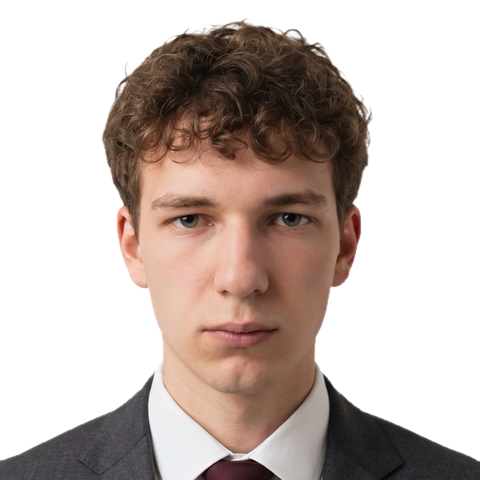
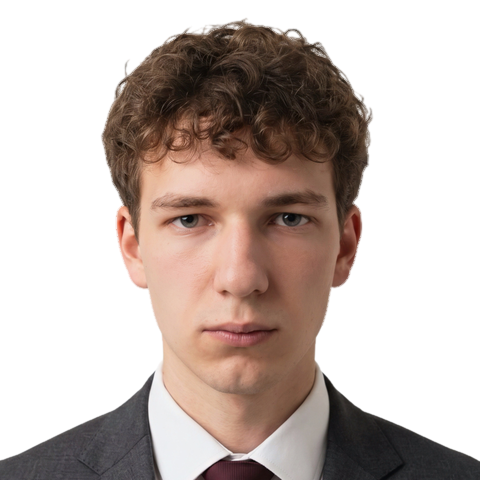
content: cleaner photo cutouts (edge color decontamination), operator patronymic

diff --git a/content/privacy.md b/content/privacy.md
@@ -6,7 +6,7 @@
 
 1.1. Политика определяет, как оператор обрабатывает и защищает персональные данные посетителей сайта https://creativerights.ru/ (далее — Сайт), заявителей и клиентов юридического сервиса CreativeRights. Политика издана во исполнение ч. 1 и 2 ст. 18.1 Федерального закона от 27.07.2006 № 152-ФЗ «О персональных данных» (далее — Закон) в редакции от 26.07.2026.
 
-1.2. Оператор персональных данных — Бабанских Артём [ОТЧЕСТВО], ИНН [ИНН], физическое лицо, применяющее специальный налоговый режим «Налог на профессиональный доход» (далее — Оператор, «мы»).
+1.2. Оператор персональных данных — Бабанских Артём Михайлович, ИНН [ИНН], физическое лицо, применяющее специальный налоговый режим «Налог на профессиональный доход» (далее — Оператор, «мы»).
 Адрес для обращений: [АДРЕС ДЛЯ ОБРАЩЕНИЙ].
 Электронная почта: creativerights@mail.ru.
 
@@ -203,4 +203,4 @@
 
 ## 13. Контакты
 
-По всем вопросам обработки персональных данных пишите на creativerights@mail.ru или по адресу [АДРЕС ДЛЯ ОБРАЩЕНИЙ]. Оператор — Бабанских Артём [ОТЧЕСТВО], ИНН [ИНН].
+По всем вопросам обработки персональных данных пишите на creativerights@mail.ru или по адресу [АДРЕС ДЛЯ ОБРАЩЕНИЙ]. Оператор — Бабанских Артём Михайлович, ИНН [ИНН].

diff --git a/content/consent.md b/content/consent.md
@@ -7,7 +7,7 @@
 
 Я, заполняя форму заявки на сайте https://creativerights.ru/ и отмечая флажок «Даю согласие на обработку персональных данных», свободно, своей волей и в своём интересе даю согласие на обработку моих персональных данных на следующих условиях (ч. 1 ст. 9 Федерального закона от 27.07.2006 № 152-ФЗ «О персональных данных», далее — Закон).
 
-1. **Оператор:** Бабанских Артём [ОТЧЕСТВО], ИНН [ИНН], плательщик налога на профессиональный доход. Адрес для обращений: [АДРЕС ДЛЯ ОБРАЩЕНИЙ]. Электронная почта: creativerights@mail.ru.
+1. **Оператор:** Бабанских Артём Михайлович, ИНН [ИНН], плательщик налога на профессиональный доход. Адрес для обращений: [АДРЕС ДЛЯ ОБРАЩЕНИЙ]. Электронная почта: creativerights@mail.ru.
 
 2. **Цели обработки:**
    1. рассмотреть мою заявку и связаться со мной по ней выбранным мной способом (Telegram или электронная почта), подготовить предложение и при моём желании заключить договор;

diff --git a/content/cookies.md b/content/cookies.md
@@ -4,7 +4,7 @@
 
 Я, нажимая кнопку «Принять» в баннере о файлах cookie на сайте https://creativerights.ru/, свободно, своей волей и в своём интересе даю согласие на обработку моих персональных данных на следующих условиях.
 
-1. **Оператор:** Бабанских Артём [ОТЧЕСТВО], ИНН [ИНН], адрес для обращений: [АДРЕС ДЛЯ ОБРАЩЕНИЙ], электронная почта: creativerights@mail.ru.
+1. **Оператор:** Бабанских Артём Михайлович, ИНН [ИНН], адрес для обращений: [АДРЕС ДЛЯ ОБРАЩЕНИЙ], электронная почта: creativerights@mail.ru.
 
 2. **Цель:** вести статистику посещений сайта, понимать, какие страницы, кнопки и рекламные каналы работают, и улучшать сайт.
 
